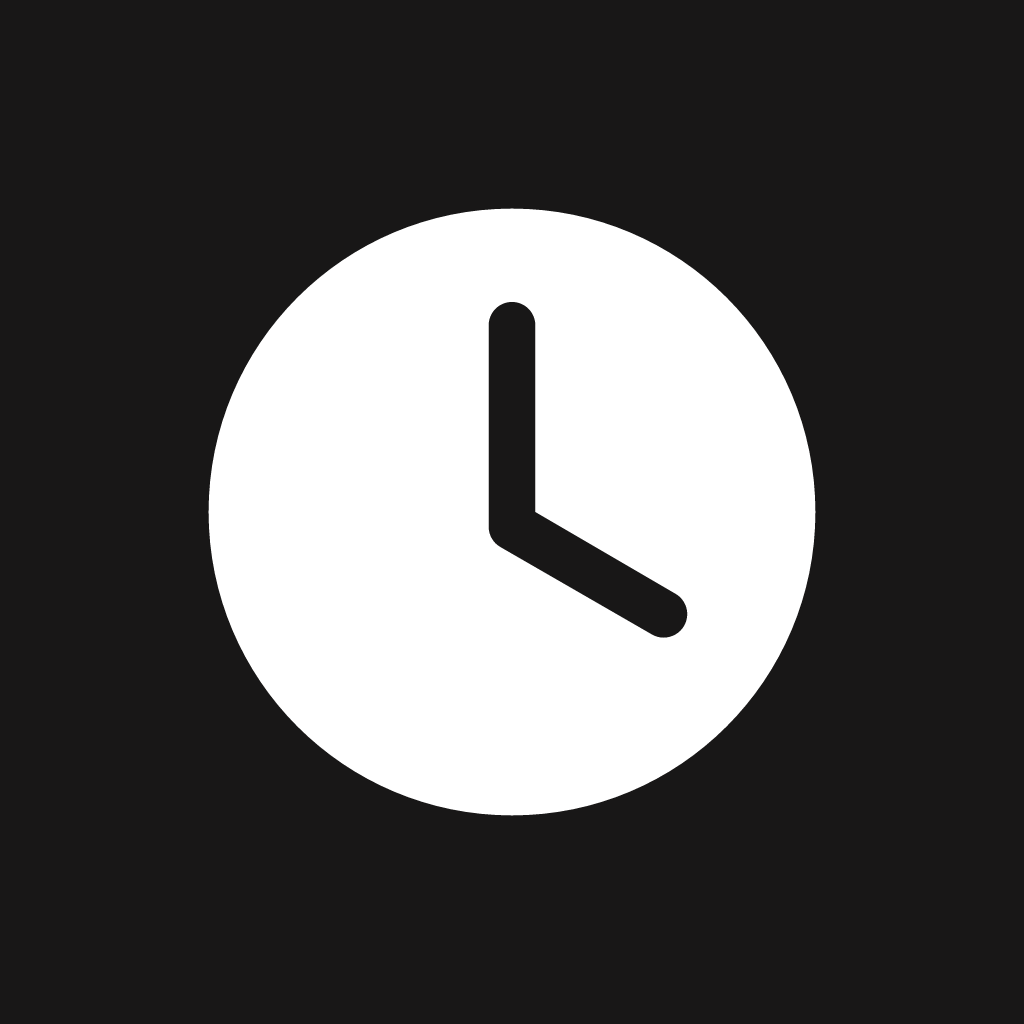
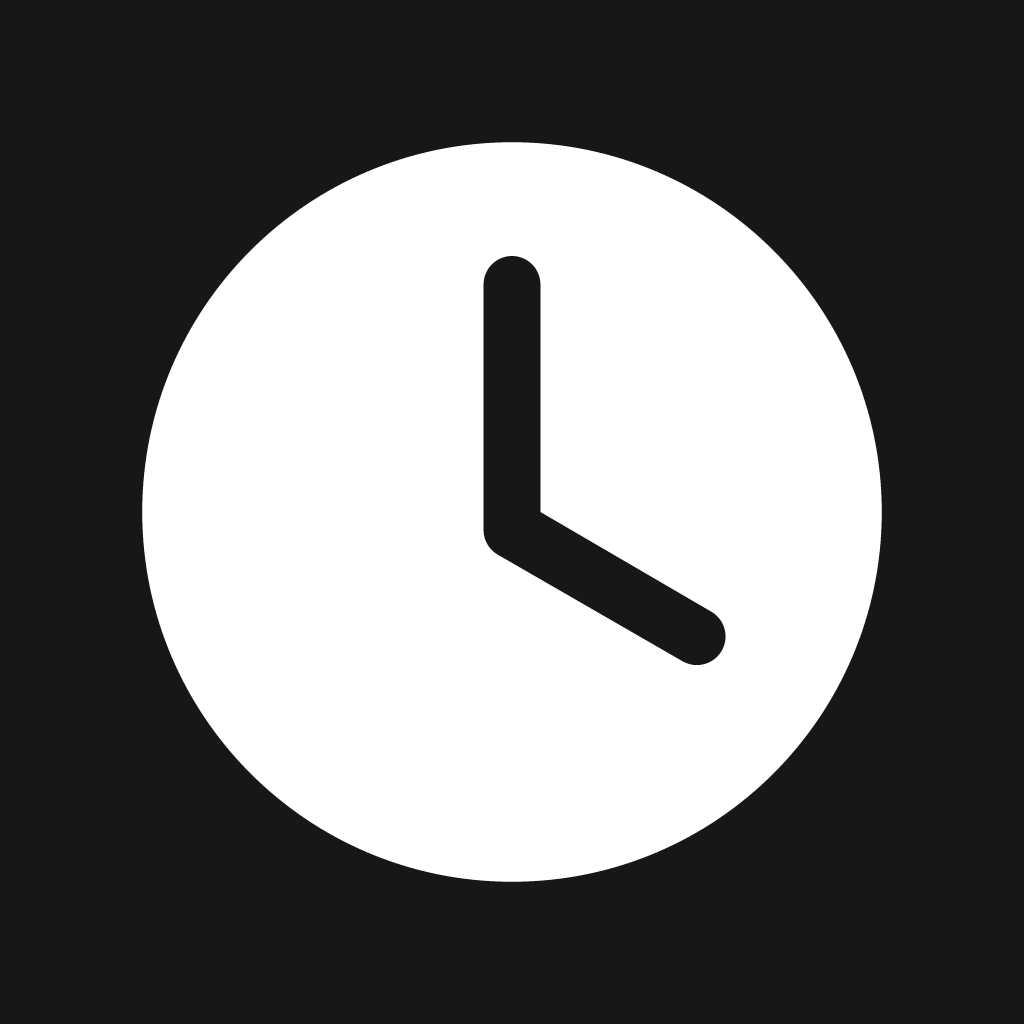
docs: beta33

diff --git a/docs/TickHub-开发需求文档.md b/docs/TickHub-开发需求文档.md
@@ -9,7 +9,7 @@
 | 决策记录 | 2026-11-24：仓库公开；APP 调度跑通后关闭原生 schedule；前期走 CI 发测试版 Release |
 | 仓库 | https://github.com/LucasLu-97/TickHub （公开） |
 | 首个测试版 | v0.1.0-beta1，已签名 APK，Release: https://github.com/LucasLu-97/TickHub/releases/tag/v0.1.0-beta1 |
-| 最新测试版 | v1.0.14-beta32（按用户要求回退到beta24稳定拖拽：每组ReorderableColumn原生拖动，移除手动滚动/空气墙裁剪；保留放下震动1次），Release: https://github.com/LucasLu-97/TickHub/releases/tag/v1.0.14-beta32 |
+| 最新测试版 | v1.0.15-beta33（仓库页拖动越过卡片震动补回；规则页落下震动改到松手瞬间即时触发），Release: https://github.com/LucasLu-97/TickHub/releases/tag/v1.0.15-beta33 |
 | 登录方式 | 内置 GitHub CLI 公开 Client ID，装完直接登录，无需用户预配置（见 §16） |
 | 目标读者 | 后续接手的开发者 / AI Agent |
 | 计划仓库 | `LucasLu-97/TickHub`（私有或公开待定，见 §12.1） |
@@ -877,6 +877,7 @@ local.properties
 - **最终形态（beta30，用户明确目标）**：规则页单个 LazyColumn 把**所有仓库组全部平铺**（header + 卡片都在一个列表）；拖动某组卡片时把其他组卡片 `ReorderableItem(enabled=false)`（库源码：enabled=false 的 item 不进 reorderableKeys，不会被当作交换目标和滚动终点），从而库层面锁死组边界——卡到达本组第一行/最后一行后库停止滚动，但整页仍是同一个列表自然上下移动。onMove 直接交换（库预测正确无弹跳）。**震动：放下时 1 次**（onDragStarted/onDragStopped 各 tick 一次，onMove 不 tick）。弃用分组独立滚动窗口（用户要求全平铺）。
 - **组边界精确停滚（beta31）**：库 scroller 只按整个列表边界停（源码 Scroller.kt 的 canScroll + maxScrollDistance），不认组边界。禁用库 scroller（`scrollThreshold=0.dp`），自实现边缘滚动：拖拽期间手指在顶/底 96dp 内时 `lazyListState.dispatchRawDelta` 滚动列表（库 draggingItemOffset 公式 = 手指位移+(初始位置-当前位置)，会自动补偿滚动，卡片稳跟手指不掉落）；每滚过一个卡片高度 55% 就把被拖卡片和组内相邻卡交换（哒哒哒）；到达本组第一行/最后一行 gi 到边界即停止滚动，即使手指仍在顶底栏。
 - **回退 beta24（beta32）**：beta25–31 的边缘滚动改造越做越差，用户明确要求回退。从 GitHub commit `1a1166e`（beta24）取回 RulesScreen.kt / ReposScreen.kt / SwipeableCard.kt 三个文件完全恢复（每组独立 ReorderableColumn 原生拖动、组名正常、无手动滚动、无 clipToBounds 空气墙）；仅保留一处后续修复：去掉 onDragStopped 的重复震动，放下只震 1 次（onSettle 那次）。数字等宽字体在 Theme.kt 未动，保留。
+- **震动修正（beta33）**：仓库页 reorderState 的 onMove 里补回 `haptic()`（拖过的卡片越过另一张时 tick）；规则页落下震动从 `onSettle`（库落位动画完成后才回调，延迟明显）移到 `onDragStopped`（松手瞬间即时），仍只震 1 次。
 - **边缘自动滚动 + 空气墙（beta25/26/27）**：组内卡片超出一页时，拖到屏幕上下边缘会自动滚动外层列表。ReorderableColumn 无原生边缘滚动，故外层 Column 用 `awaitPointerEvent(Initial)` 观察手指 Y（不消费事件），拖拽期间协程每 16ms 滚动。beta26 修正坐标基准绑固定视口。beta27 加**空气墙**：用 `onGloballyPositioned` 记录每组在滚动内容中的 top/bottom，拖拽时只在本组范围内滚动（组名 header 触顶/组底触底即停），不会把整个页面滚走；卡片本身由库的独立组容器限制不能跨组。数字用等宽字形：主题 typography 全体加 `fontFeatureSettings="tnum"`（tabular numbers，仅数字等宽，中文不受影响）。
 - **新增仓库**：扫描到的新仓库追加到列表末尾。
 
